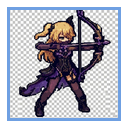
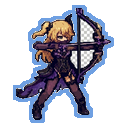
Fix sprite backgrounds: strip checkerboard fake-transparency
The knight/archer source art used a painted gray checkerboard (two
alternating grays, fully opaque) to fake transparency, not a real alpha
channel. The single-color flood only matched one gray, leaving opaque
white squares behind. Replace it with an edge-connected flood that keys
out both checkerboard grays (and flat solid bg for the mage) while
preserving interior highlights, then eats a 1px gray fringe halo.

Bump knight v8, mage/archer v2.

diff --git a/public/assets/sprites.js b/public/assets/sprites.js
@@ -213,16 +213,16 @@
   // See public/assets/units/README.md.
   const IMG = {
     knight: {
-      A: "/assets/units/knight_a.png?v=7",
-      B: "/assets/units/knight_b.png?v=7",
+      A: "/assets/units/knight_a.png?v=8",
+      B: "/assets/units/knight_b.png?v=8",
     },
     mage: {
-      A: "/assets/units/mage_a.png?v=1",
-      B: "/assets/units/mage_b.png?v=1",
+      A: "/assets/units/mage_a.png?v=2",
+      B: "/assets/units/mage_b.png?v=2",
     },
     archer: {
-      A: "/assets/units/archer_a.png?v=1",
-      B: "/assets/units/archer_b.png?v=1",
+      A: "/assets/units/archer_a.png?v=2",
+      B: "/assets/units/archer_b.png?v=2",
     },
   };
 
